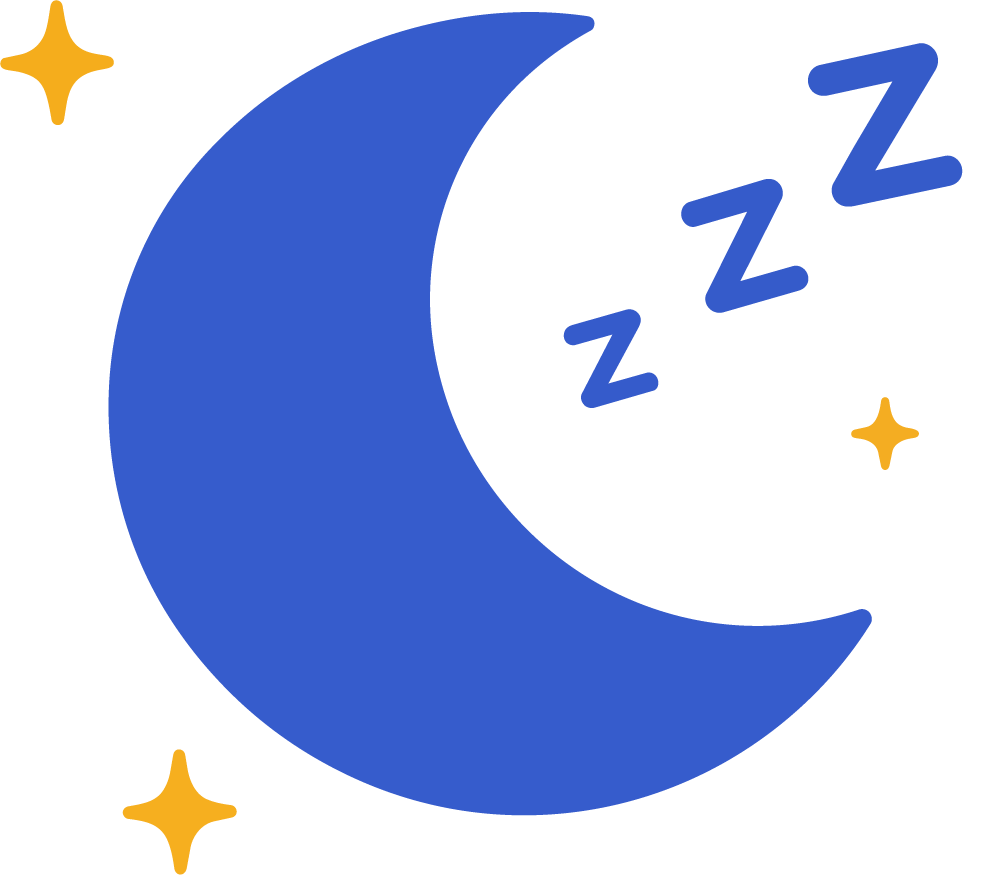
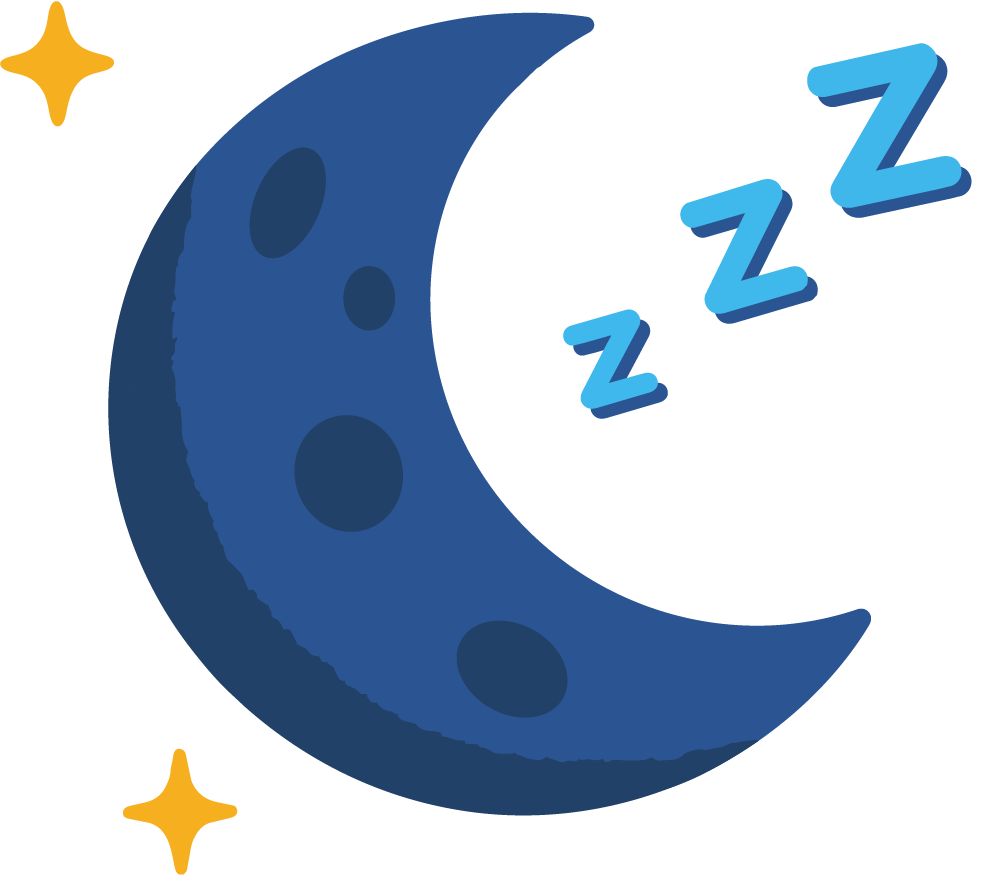
Refresh moon onboarding art

diff --git a/flow-data.js b/flow-data.js
@@ -11,7 +11,7 @@ window.SEE_ONBOARDING_FLOW = (() => {
       lifeBenefitsArc: image("life_benefits_arc.png"),
       champagneToast: image("champagne_toast_3.png?v=20260619-1322"),
       letGoHand: image("let_go_hand_outline.png?v=20260619-1322"),
-      moon: image("moon.png"),
+      moon: image("moon.png?v=20260619-1524"),
       lightningBolt: image("lightning_bolt.png"),
     },
     screens: {

diff --git a/index.html b/index.html
@@ -622,7 +622,7 @@
             <h1 class="headline medium">Get a Better Night’s Sleep</h1>
             <p class="body">Your sleep cycles improve. A better chance to rest, recover and reset.</p>
           </div>
-          <img class="art moon-art" src="assets/images/moon.png" alt="" />
+          <img class="art moon-art" src="assets/images/moon.png?v=20260619-1524" alt="" />
         </div>
         <button class="primary-button" type="button" data-next="energy">continue</button>
       </section>